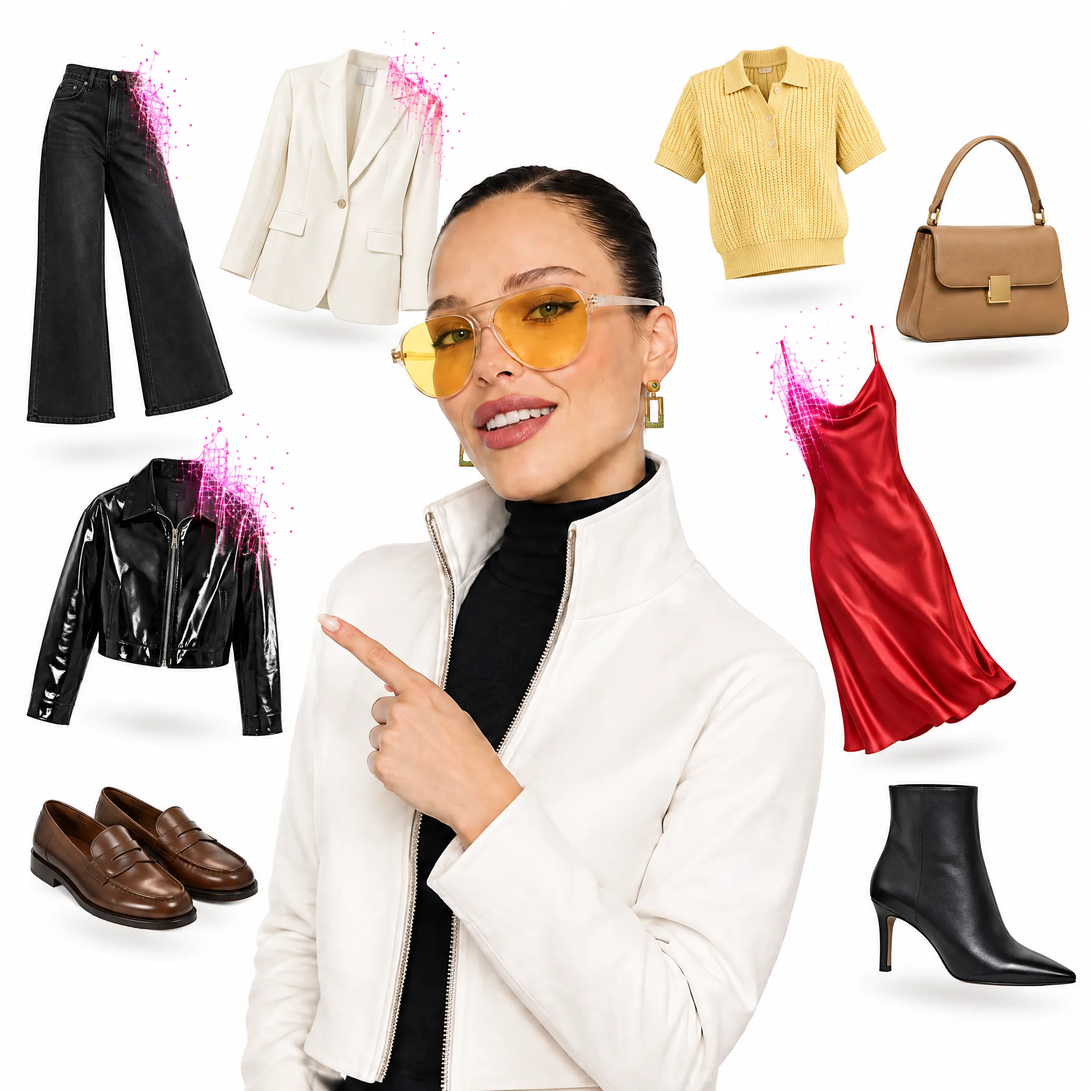
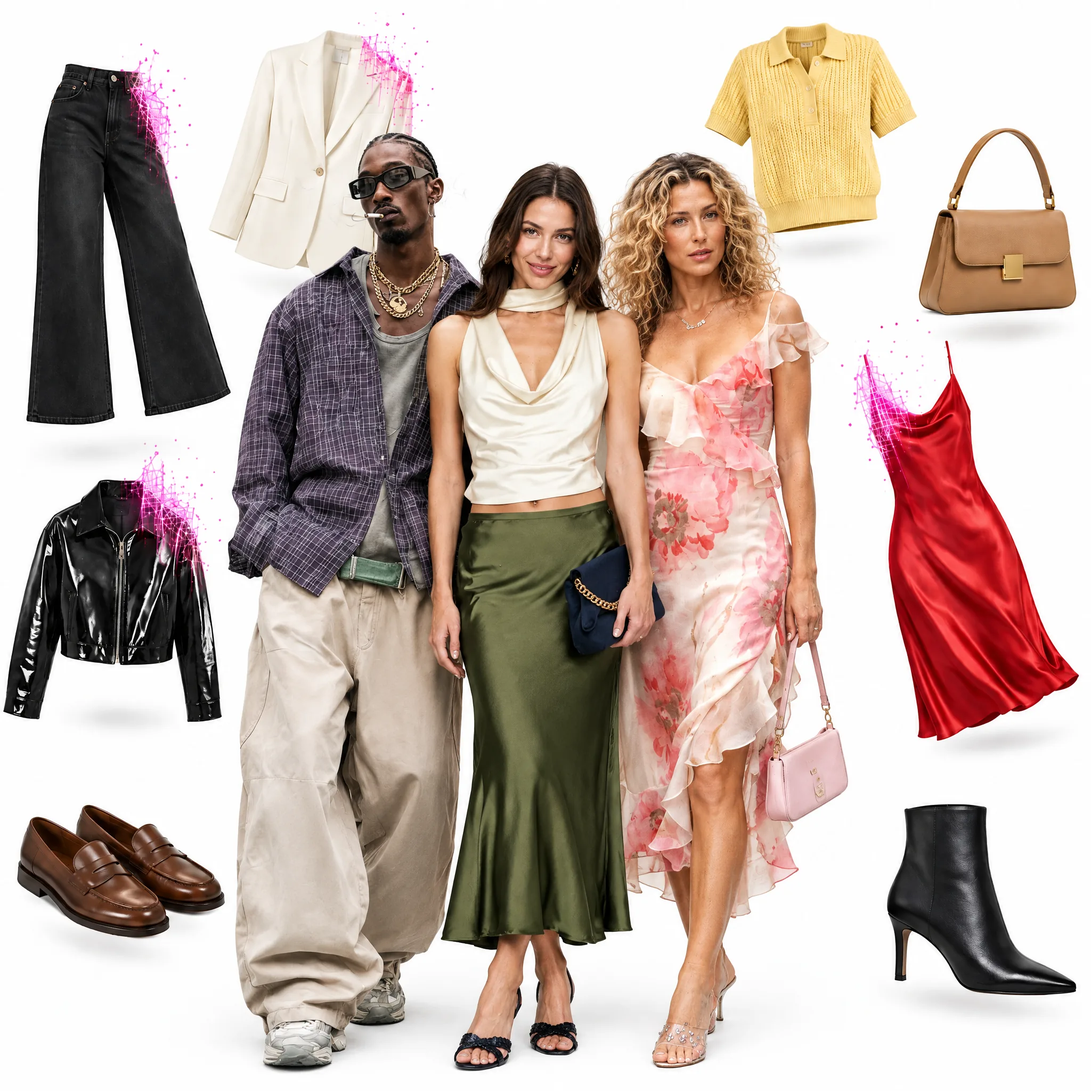
build(vendas): dist com a arte nova da hero branca

diff --git a/index.html b/index.html
@@ -27,7 +27,7 @@
       <span class="micro" id="hb-micro">Quanto mais voc&ecirc; usa, mais ela acerta.</span>
     </div>
     <div class="hb-arte">
-      <img src="img/hero-arte-branco-mao.webp?v=bda9448ff4" width="2048" height="2048" alt="Mulher de &oacute;culos apontando para as pe&ccedil;as do closet dela, algumas sendo montadas por linhas de neon" fetchpriority="high">
+      <img src="img/hero-arte-branco-mao.webp?v=a2718e3803" width="2048" height="2048" alt="Tr&ecirc;s pessoas de estilos diferentes cercadas por pe&ccedil;as do closet, algumas sendo montadas por linhas de neon" fetchpriority="high">
     </div>
   </div>
 </section>
